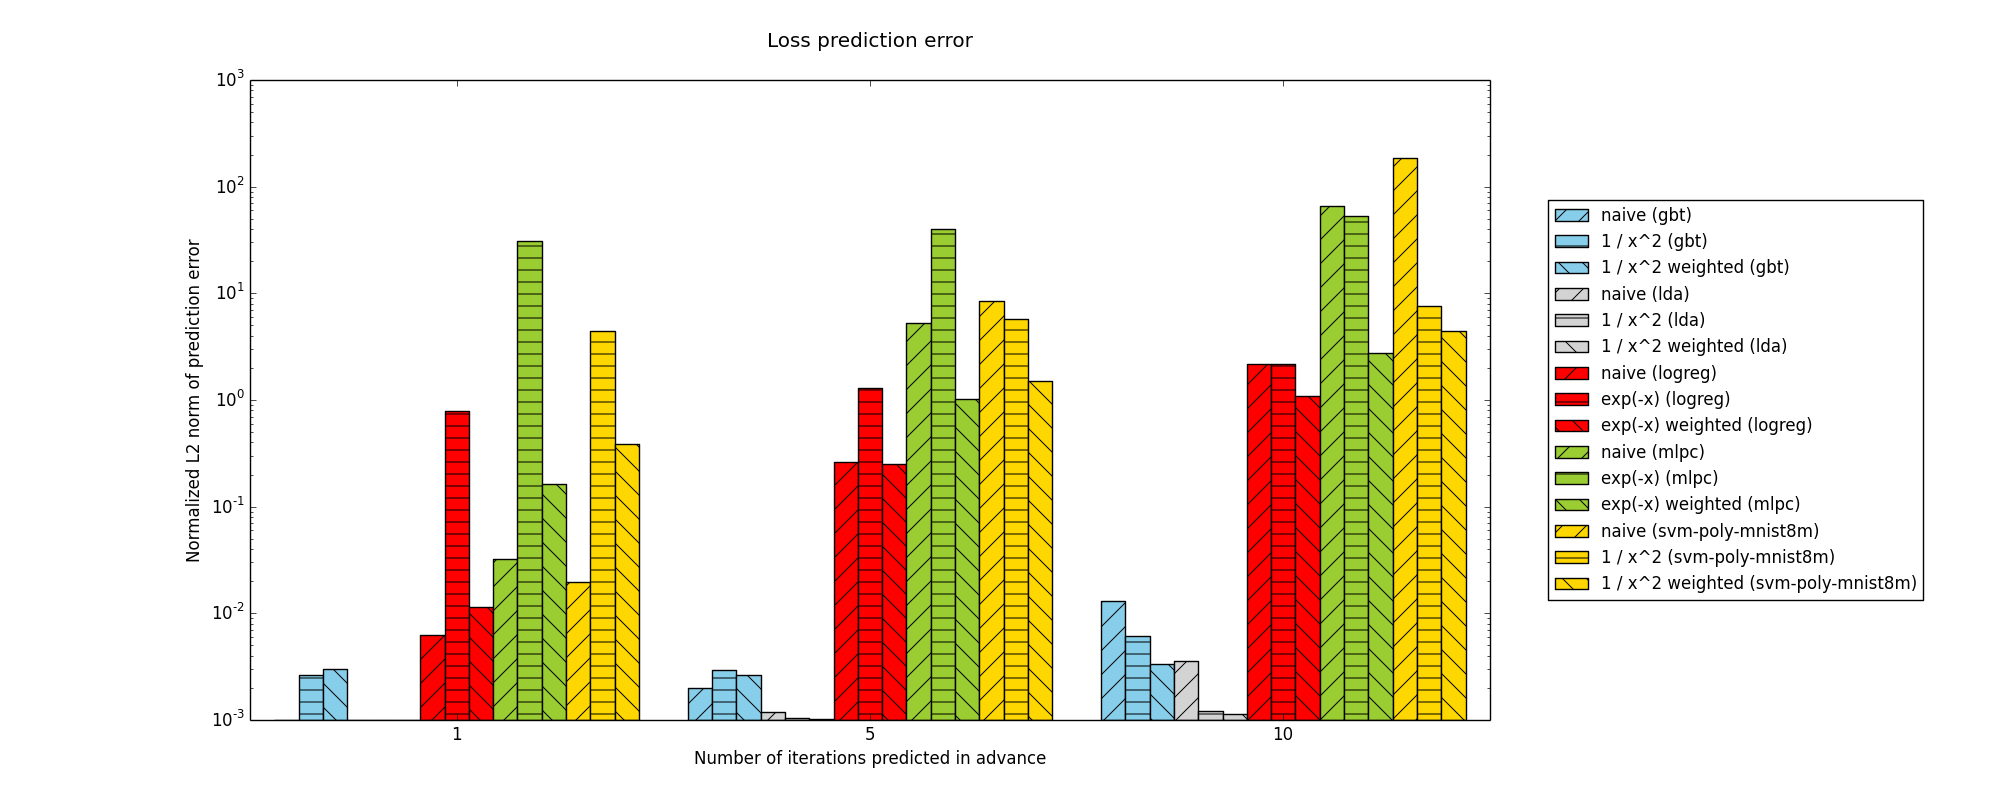
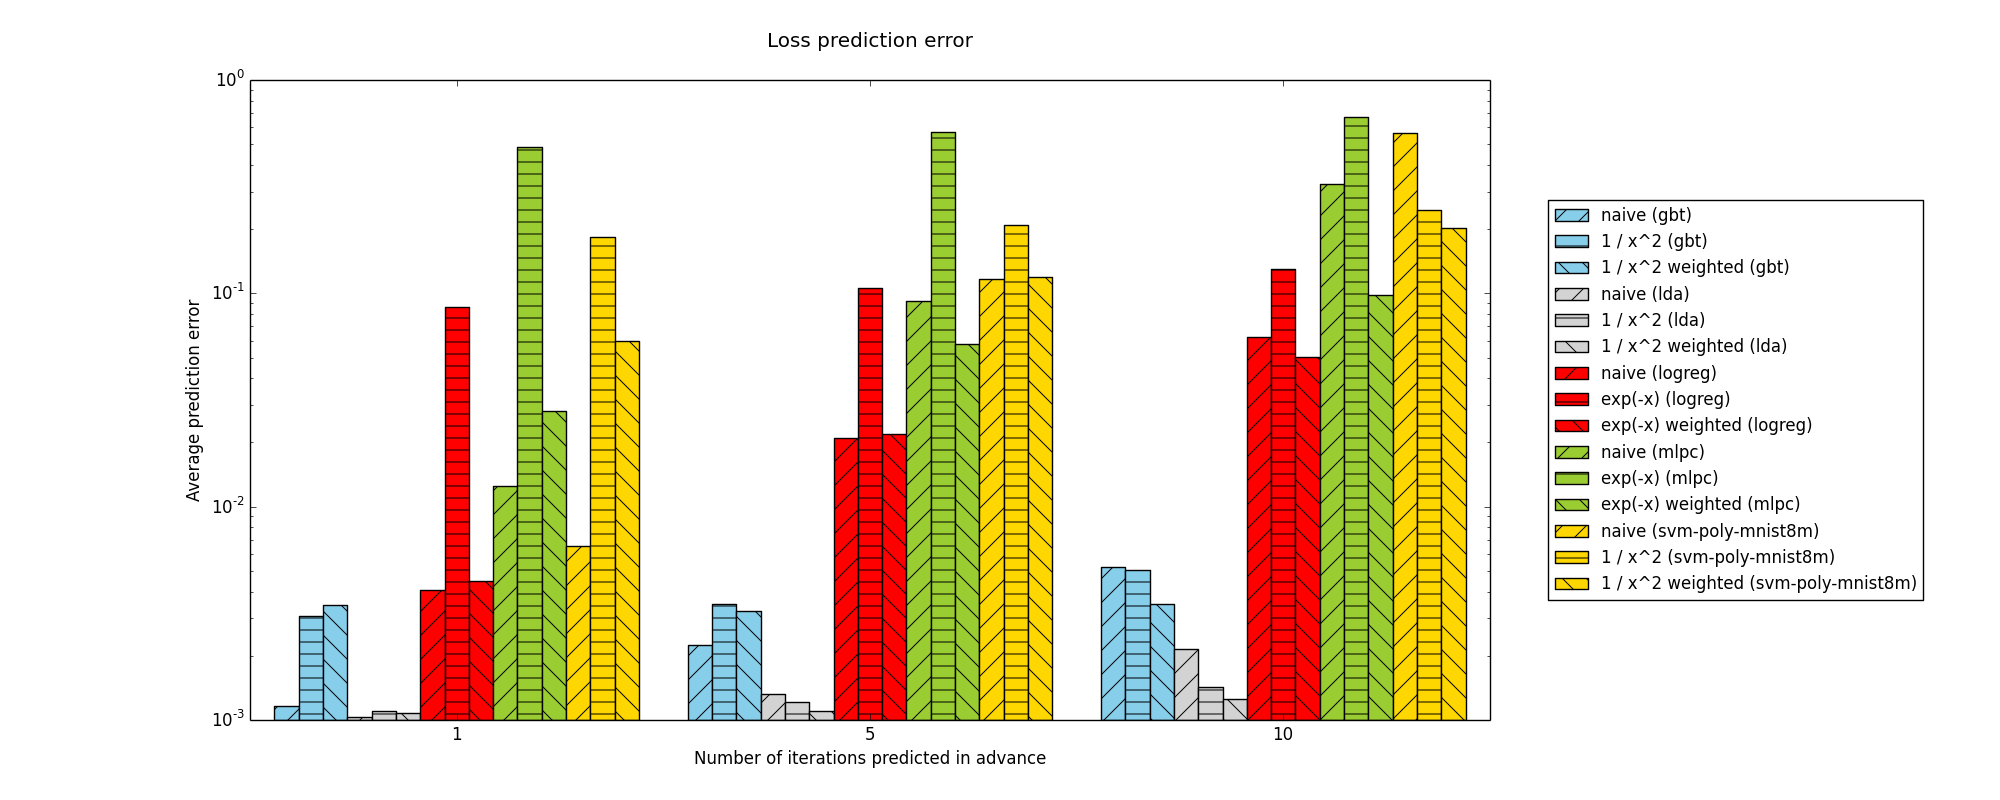
Plot average absolute error instead of L2 error

diff --git a/plotting/plot.py b/plotting/plot.py
@@ -56,10 +56,10 @@ def do_the_thing(base_dir, *log_file_paths):
       assert actual_x == my_actual_x
       assert actual_y == my_actual_y,\
         "first actual_y = %s,\nmy_actual_y = %s" % (actual_y, my_actual_y)
-    l2_norm = calculate_l2_norm(actual_x, actual_y, predicted_x, predicted_y)
+    avg_error = calculate_avg_abs_error(actual_x, actual_y, predicted_x, predicted_y)
     name = translate_legend(path)
-    ax.plot(predicted_x, predicted_y, label="%s, L2 norm = %.3f" % (name, l2_norm))
-    print "L2 norm for %s: %s" % (path, l2_norm)
+    ax.plot(predicted_x, predicted_y, label="%s, Avg error = %.3f" % (name, avg_error))
+    print "Avg error for %s: %s" % (path, avg_error)
 
   plt.legend(prop={'size':12})
   if len(log_file_paths) == 1:
@@ -144,19 +144,19 @@ def parse_losses(log_file_path, predicted_n_iterations_ago):
   predicted_y = [y for (_, y) in predicted_points]
   return (actual_x, actual_y, predicted_x, predicted_y)
 
-def calculate_l2_norm(actual_x, actual_y, predicted_x, predicted_y):
+def calculate_avg_abs_error(actual_x, actual_y, predicted_x, predicted_y):
   # What's the difference between the actual loss and the predicted loss?
-  l2_differences = []
+  differences = []
   percentile_cutoff = 99
   for i, pred_loss in enumerate(predicted_y):
     time = predicted_x[i]
     if time in actual_x:
       j = actual_x.index(time)
       act_loss = actual_y[j]
-      l2_differences += [math.pow((pred_loss - act_loss) / act_loss, 2)]
-  cutoff = np.percentile(l2_differences, percentile_cutoff)
-  l2_differences = [d for d in l2_differences if d <= cutoff]
-  return sum(l2_differences)
+      differences += [abs((pred_loss - act_loss) / act_loss)]
+  cutoff = np.percentile(differences, percentile_cutoff)
+  differences = [d for d in differences if d <= cutoff]
+  return sum(differences) / len(differences)
  
 if __name__ == "__main__":
   main()

diff --git a/plotting/plot_error.py b/plotting/plot_error.py
@@ -19,13 +19,13 @@ alg_to_curve_fitter = {
 }
 
 def get_data(path):
-  l2 = []
+  avg_error = []
   for predicted_n_iterations_ago in iterations_of_interest:
     (actual_x, actual_y, predicted_x, predicted_y) =\
       parse_losses(path, predicted_n_iterations_ago)
-    l2 += [calculate_l2_norm(actual_x, actual_y, predicted_x, predicted_y)]
-  print "L2 norms for %s for these iterations %s are %s" % (path, iterations_of_interest, l2)
-  return l2
+    avg_error += [calculate_avg_abs_error(actual_x, actual_y, predicted_x, predicted_y)]
+  print "Average prediction error for %s for these iterations %s are %s" % (path, iterations_of_interest, avg_error)
+  return avg_error
 
 def main():
   args = sys.argv
@@ -71,7 +71,7 @@ def main():
     for i in range(len(log_file_names)):
       legend_names += ["%s (%s)" % (translate_legend(log_file_names[i]), alg_name)]
   bars += [ax.bar(indices + (3 * num_algrithms + 1) * width, empty, width)]
-  ax.set_ylabel("Normalized L2 norm of prediction error")
+  ax.set_ylabel("Average prediction error")
   ax.set_xlabel("Number of iterations predicted in advance")
   ax.set_title("Loss prediction error", y = 1.04)
   ax.set_xticks(indices + width * num_bars_per_group / 2)
